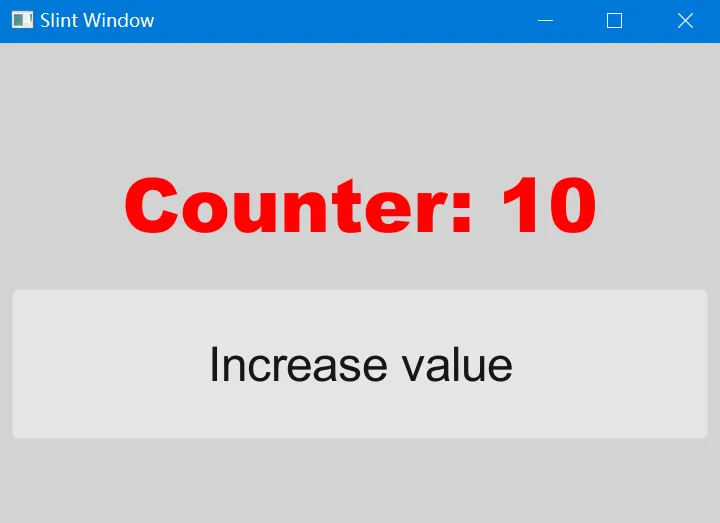
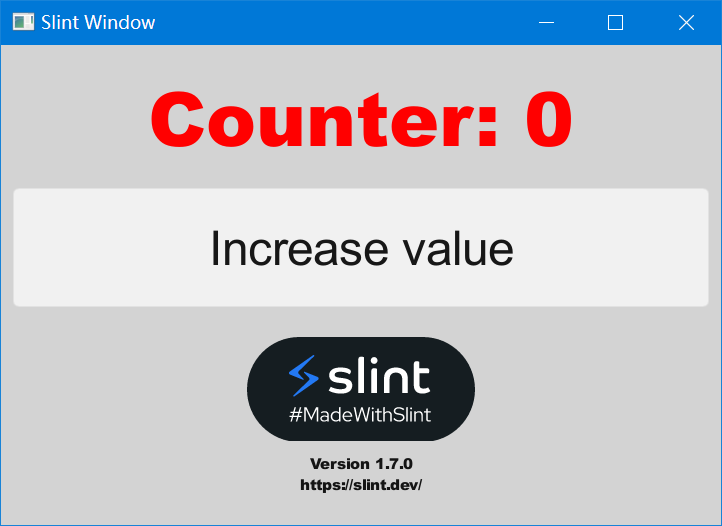
update slint version to v1.7.0-pre

diff --git a/README.md b/README.md
@@ -59,7 +59,7 @@ HRESULT RoGetActivationFactory(
 * [SlintPad： Web based slint editor](https://slintpad.com/)
 
 ```cpp
-import { Button, VerticalBox } from "std-widgets.slint";
+import { AboutSlint, Button, VerticalBox } from "std-widgets.slint";
 
 export component AppWindow inherits Window {
     in-out property<int> counter: 0;
@@ -92,6 +92,9 @@ export component AppWindow inherits Window {
             clicked => {
                 root.request-increase-value();
             }
+        }
+        AboutSlint {
+            preferred-height: 150px;
         }
      }
 }
@@ -158,17 +161,49 @@ set target=slint_hello
 
 set cur_path=%cd%
 set cmake_exe=cmake.exe
-set upx_exe="D:\Program Files\upx\upx.exe"
+set upx_exe="D:/Program Files/upx/upx.exe"
 
-set llvm_dir=C:/LLVM-MinGW/ucrt
-set strip_exe=%llvm_dir%/bin/llvm-strip.exe
-set slint_dir=D:/Work/work_code/GUI/Slint-cpp/slint-cpp-release
+rem gcc or llvm
+set cc_type=llvm
+set slint_ver=1.6.0
+
+if "%cc_type%" == "gcc" (
+	rem gcc:WinLibs
+	set cc_dir=C:/WinLibs/ucrt/bin
+	set strip_name=strip.exe
+	set cxx_name=g++.exe
+	set cc_name=gcc.exe
+	set link_name=ld.exe
+	set make_name=mingw32-make.exe
+) else (
+	rem llvm:LLVM-MinGW
+	set cc_dir=C:/LLVM-MinGW/ucrt/bin
+	set strip_name=llvm-strip.exe
+	set cxx_name=clang++.exe
+	set cc_name=clang.exe
+	set link_name=ld.lld.exe
+	set make_name=mingw32-make.exe
+)
+set strip_exe=%cc_dir%/%strip_name%
+set cxx_compiler=%cc_dir%/%cxx_name%
+set cc_compiler=%cc_dir%/%cc_name%
+set link_executable=%cc_dir%/%link_name%
+set make_program=%cc_dir%/%make_name%
+echo "cc_dir = [%cc_dir%]"
+echo "cc_compiler = [%cc_compiler%]"
+
+set slint_dir=%cur_path%/../slint-cpp-release/%slint_ver%/%cc_type%
+echo "slint_dir = [%slint_dir%]"
 
 set build_dir=build
 set install_dir=install
 
-set cflags=-Os -flto -DNDEBUG -ffunction-sections -fdata-sections -static
+set cflags=-Os -DNDEBUG -ffunction-sections -fdata-sections -static
 set ldlibrary=-lkernel32 -luser32 -lgdi32 -lwinspool -lshell32 -lole32 -loleaut32 -luuid -lcomdlg32 -ladvapi32 -lcomctl32 -liphlpapi -lws2_32 -lntoskrnl -lbcrypt -lopengl32 -luiautomationcore -lpropsys -ldwmapi -limm32 -luxtheme -luserenv -static
+
+echo "cflags = [%cflags%]"
+echo "ldlibrary = [%ldlibrary%]"
+
 set ldflags=-Os -DNDEBUG -Wl,-subsystem,windows -Wl,--gc-sections -static
 
 echo "Del build cache"
@@ -178,20 +213,23 @@ call :my_sleep
 
 echo "Run cmake generator"
 %cmake_exe% -G "MinGW Makefiles" -B "%build_dir%" ^
-    -DCMAKE_VERBOSE_MAKEFILE:BOOL=ON ^
-    -DCMAKE_BUILD_TYPE:STRING=MinSizeRel ^
-    -DCMAKE_CXX_COMPILER:STRING="%llvm_dir%/bin/clang++.exe" ^
-    -DCMAKE_MAKE_PROGRAM:FILEPATH="%llvm_dir%/bin/mingw32-make.exe" ^
-    -DCMAKE_C_COMPILER:STRING="%llvm_dir%/bin/clang.exe" ^
-    -DCMAKE_CXX_FLAGS:STRING="%cflags%" ^
-    -DCMAKE_C_FLAGS:STRING="%cflags%" ^
-    -DCMAKE_CXX_STANDARD_LIBRARIES:STRING="%ldlibrary%" ^
-    -DCMAKE_CXX_STANDARD_LIBRARIES:STRING="%ldlibrary%" ^
-    -DCMAKE_STATIC_LINKER_FLAGS:STRING="%ldflags%" ^
-    -DCMAKE_EXE_LINKER_FLAGS:STRING="%ldflags%" ^
-    -DSLINT_COMPILER:FILEPATH="%slint_dir%/bin/slint-compiler.exe" ^
-    -DSlint_DIR:PATH="%slint_dir%/lib/cmake/Slint" ^
-    -DCMAKE_INSTALL_PREFIX:PATH="%install_dir%"
+	-DCMAKE_VERBOSE_MAKEFILE:BOOL=ON ^
+	-DCMAKE_BUILD_TYPE:STRING=MinSizeRel ^
+	-DCMAKE_CXX_COMPILER:STRING="%cxx_compiler%" ^
+	-DCMAKE_C_COMPILER:STRING="%cc_compiler%" ^
+	-DCMAKE_LINKER:STRING="%link_executable%" ^
+	-DCMAKE_CXX_LINK_EXECUTABLE:STRING="%link_executable%" ^
+	-DCMAKE_C_LINK_EXECUTABLE:STRING="%link_executable%" ^
+	-DCMAKE_MAKE_PROGRAM:FILEPATH="%make_program%" ^
+	-DCMAKE_CXX_FLAGS:STRING="%cflags%" ^
+	-DCMAKE_C_FLAGS:STRING="%cflags%" ^
+	-DCMAKE_CXX_STANDARD_LIBRARIES:STRING="%ldlibrary%" ^
+	-DCMAKE_C_STANDARD_LIBRARIES:STRING="%ldlibrary%" ^
+	-DCMAKE_STATIC_LINKER_FLAGS:STRING="%ldflags%" ^
+	-DCMAKE_EXE_LINKER_FLAGS:STRING="%ldflags%" ^
+	-DSLINT_COMPILER:FILEPATH="%slint_dir%/bin/slint-compiler.exe" ^
+	-DSlint_DIR:PATH="%slint_dir%/lib/cmake/Slint" ^
+	-DCMAKE_INSTALL_PREFIX:PATH="%install_dir%"
 if %errorlevel% neq 0 goto my_error
 call :my_sleep
 
@@ -201,22 +239,22 @@ if %errorlevel% neq 0 goto my_error
 call :my_sleep
 
 if exist %strip_exe% (
-    echo "Run strip [%strip_exe% --strip-all %build_dir%/%target%.exe]"
-    %strip_exe% --strip-all %build_dir%/%target%.exe
-    if %errorlevel% neq 0 goto my_error
-    call :my_sleep
+	echo "Run strip [%strip_exe% --strip-all %build_dir%/%target%.exe]"
+	%strip_exe% --strip-all %build_dir%/%target%.exe
+	if %errorlevel% neq 0 goto my_error
+	call :my_sleep
 ) else (
-    echo "Skip strip"
+	echo "Skip strip"
 )
 
 if exist %upx_exe% (
-    echo "Run upx [%upx_exe% %build_dir%/%target%.exe]"
-    rem %upx_exe% -9 --ultra-brute %build_dir%/%target%.exe
-    %upx_exe% %build_dir%/%target%.exe
-    if %errorlevel% neq 0 goto my_error
-    call :my_sleep
+	echo "Run upx [%upx_exe% %build_dir%/%target%.exe]"
+	rem %upx_exe% -9 --ultra-brute %build_dir%/%target%.exe
+	%upx_exe% %build_dir%/%target%.exe
+	if %errorlevel% neq 0 goto my_error
+	call :my_sleep
 ) else (
-    echo "Skip upx"
+	echo "Skip upx"
 )
 
 echo "Run [%build_dir%/%target%.exe]"
